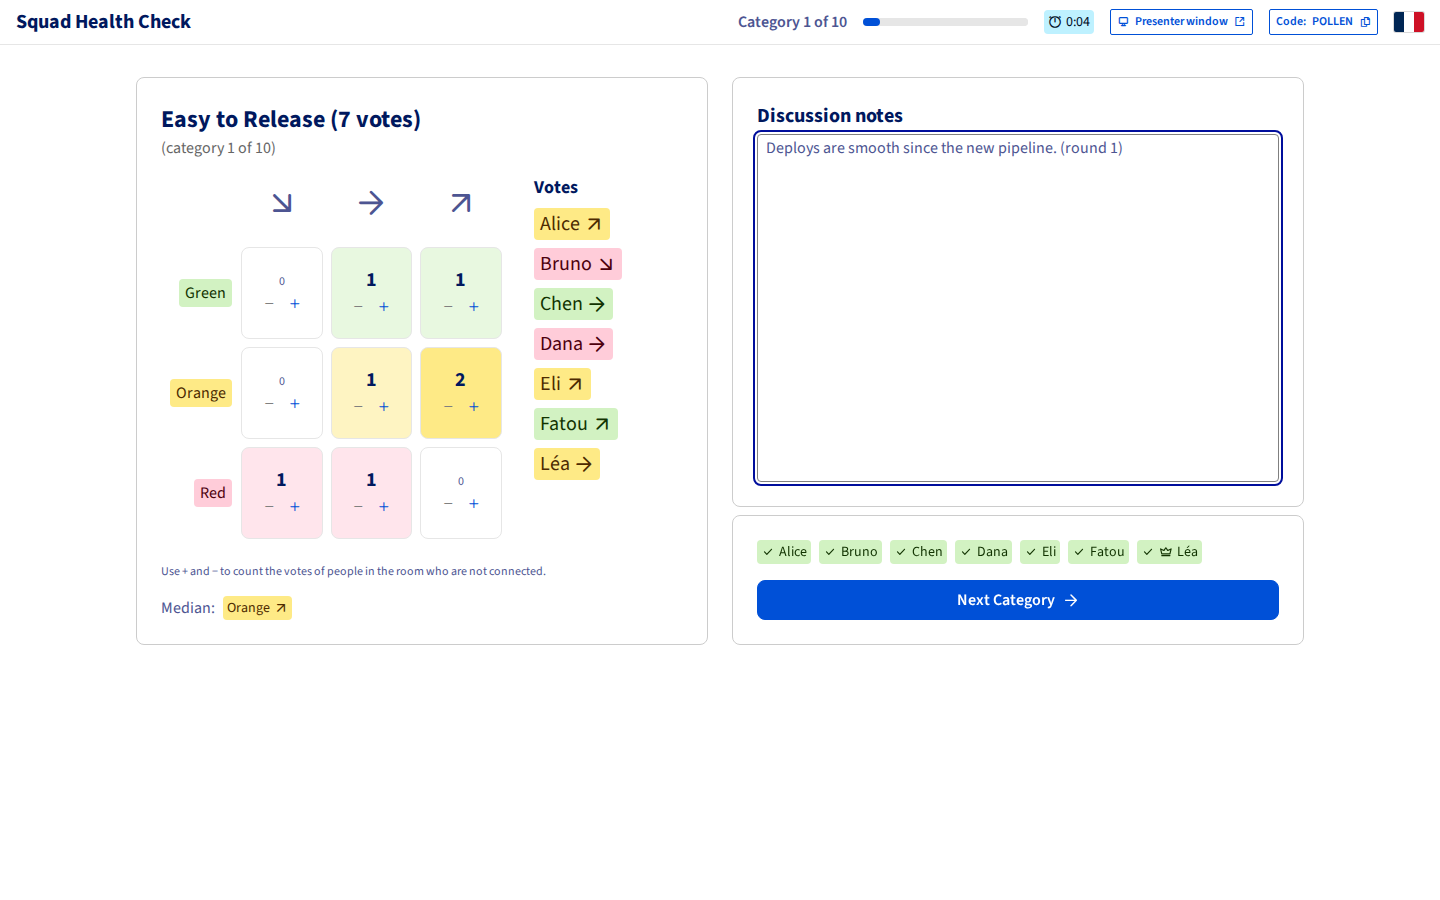
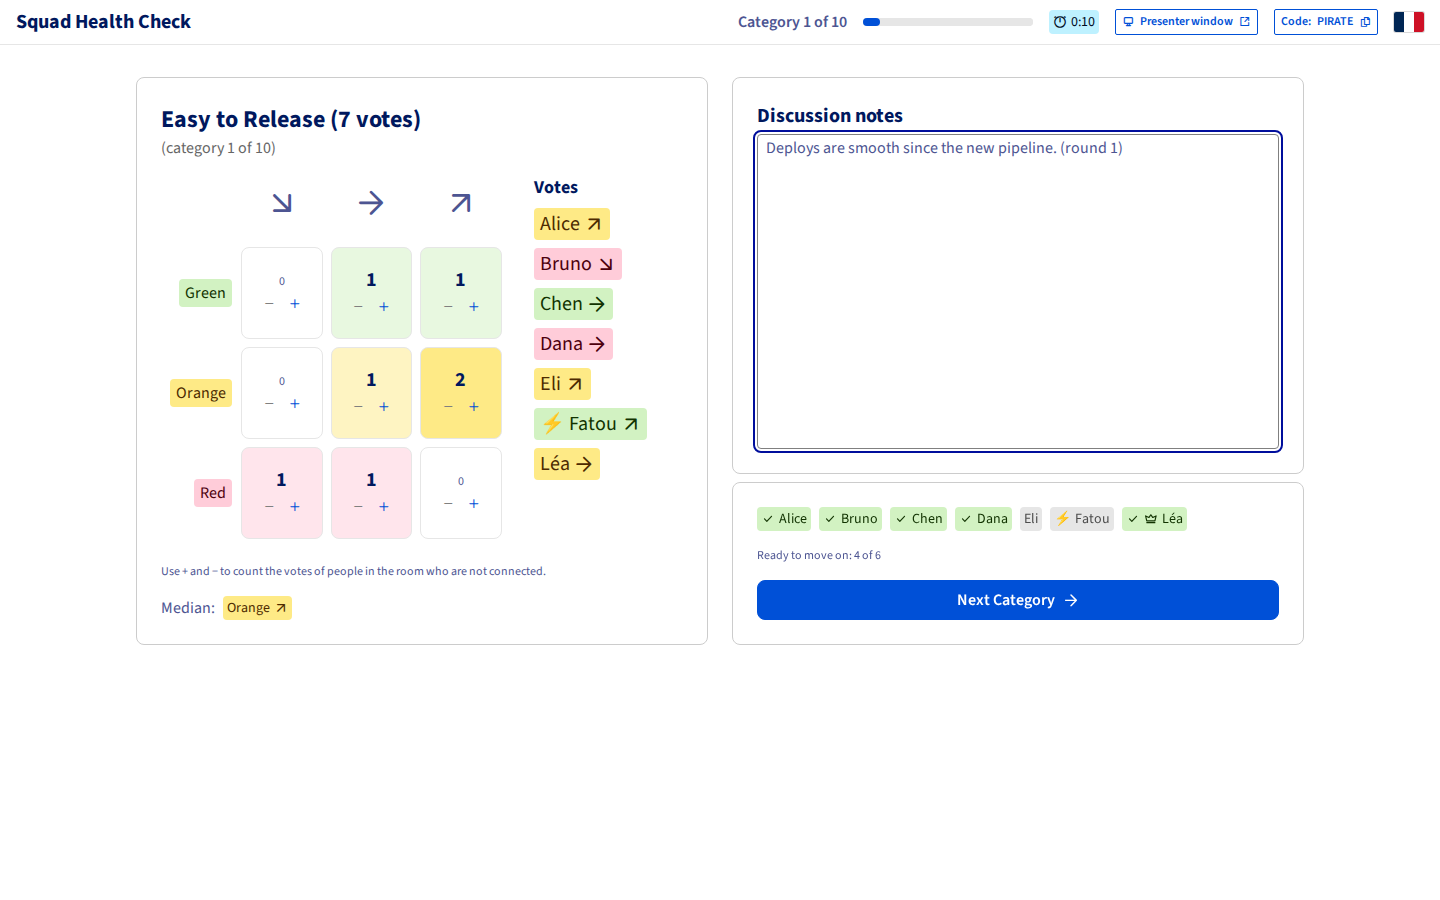
docs: refresh the screenshots and list the ready button, quick voters, fun facts and editor tabs in the README

Changed region(s): [[0.5, 0.4978, 0.9062, 0.6533], [0.7188, 0.0, 0.9375, 0.0311], [0.375, 0.4356, 0.4688, 0.4978]]

diff --git a/README.md b/README.md
@@ -35,7 +35,13 @@ A static site on GitHub Pages, synced in real time through Firebase (free plan).
     <th>🎛 Facilitator dashboard</th>
   </tr>
   <tr>
-    <td><img src="docs/screenshots/facilitator.png" alt="Facilitator view: the vote matrix with plus and minus buttons for offline votes, the private discussion notes and the Next Category button" width="560"></td>
+    <td><img src="docs/screenshots/facilitator.png" alt="Facilitator view: the vote matrix with plus and minus buttons for offline votes, the named votes, the private discussion notes, who is ready to move on and the Next Category button" width="560"></td>
+  </tr>
+  <tr>
+    <th colspan="2">🏁 Finished screen (shared)</th>
+  </tr>
+  <tr>
+    <td colspan="2"><img src="docs/screenshots/finished.png" alt="Finished screen on the presenter window: a banner of four fun facts about the health check (the most in sync category, the number of votes, a green thumb and the quickest voter) above the recap of each category" width="560"></td>
   </tr>
 </table>
 
@@ -52,7 +58,9 @@ A static site on GitHub Pages, synced in real time through Firebase (free plan).
 | 📖 **Introduction step** | A built-in presentation of the workshop between the lobby and the first category |
 | 🎮 **Facilitator controls** | The facilitator drives the flow (start, reveal, next, end) from their own window and chooses at creation whether they take part in the vote |
 | ⏱ **Round timer** | Every view shows the time spent on the current category; it quietly turns 🟠 amber past the time slot chosen at creation (1–30 min, 10 by default, about 2 hours for 10 categories with the intro and wrap-up), then 🔴 red at 150% of it |
+| 🧠 **Remembered name** | The name typed on joining is offered again on the next session, in the same browser |
 | 👥 **Participant cap** | At most 15 people (facilitator included) can join a session 🔒 |
+| ✅ **Ready to move on** | Once a round is revealed, each participant can tell, from their phone, that they are ready for the next category (and take it back); the facilitator sees who is ready (*Ready to move on: 4 of 6*) but still decides when to move on 🔒 |
 
 ### 🗳 Votes and results
 
@@ -62,14 +70,17 @@ A static site on GitHub Pages, synced in real time through Firebase (free plan).
 | 🎉 **Auto-reveal** | Votes are revealed when every voter has voted (from the facilitator's open window); voters whose app is disconnected are marked in the facilitator view, which suggests revealing by hand once the others have voted |
 | 🕶 **Vote anonymization** | Chosen at creation: *off* (everyone sees who voted what once a round is revealed), *facilitator only* (only the facilitator sees names; the shared screen shows totals) or *full* (totals only). Names are never visible while a round is being voted 🔒 |
 | ➕ **Votes for people without the app** | During a round, the facilitator adds or removes votes in the matrix for people in the room who are not connected; they are marked and can be reset |
+| ⚡ **Quick voters** | A ⚡ before the name of whoever voted within 2 seconds of the round opening, in the facilitator's live list and in the named votes of the current round |
+| 🎊 **Fun facts** | The finished screen opens with a banner of four fun facts picked from 33 (*Pessimistic Pal*, *Quickest Draw*, *Hot Debate*, *Team Mood*…), mixing the team, people and speed; facts about what a person voted only appear when votes are not anonymous, and speed facts name people but never their votes. The same facts show whenever the screen reloads |
 | 📝 **Private facilitator notes** | A note per category in the facilitator view, never on the shared screen; only the facilitator can read them 🔒 |
 
 ### 🧩 Preparing and following up
 
 | | |
 |---|---|
-| 🗂 **Categories** | Edit, add, remove and reorder the categories (drag and drop or the ↑/↓ buttons); removed ones stay among the suggestions, and the last choice is the default for the next session |
+| 🗂 **Categories** | Edit, add, remove and reorder the categories (drag and drop or the ↑/↓ buttons); each one describes its 🟢 green and 🔴 red states, in English and French tabs of the editor, while 🟠 orange keeps a generic description to keep the discussion on the extremes; removed ones stay among the suggestions, and the last choice is the default for the next session |
 | 📤 **Recap export** | The facilitator edits the notes of every category at the end and downloads results and notes as **Markdown**, an accessible **PDF**, or **JSON** (format: [`public/session-export.schema.json`](public/session-export.schema.json)) |
+| 💡 **Suggested categories** | Built-in categories removed from the list stay among the suggestions, with a button to add them back or delete them for good |
 | 📈 **Comparison with the previous session** | The JSON of a past session, picked at creation (the last one finished in this browser by default) or imported on the recap, shows each category's previous median and how it moved |
 | 🌍 **English and French** | Follows the browser language; the flag in the navbar switches it, in every open window |
 | ♿ **Accessible** | WCAG 2.2 AA for the app, PDF/UA-1 for the PDF report (see [Accessibility](#-accessibility)) |
@@ -89,7 +100,7 @@ flowchart LR
     E --> F["🎉 Reveal"]
     F --> G["💬 Discuss & note"]
     G -->|next category| E
-    G -->|last one| H["📤 Recap & export"]
+    G -->|last one| H["🎊 Fun facts,<br/>recap & export"]
 ```
 
 1. **Facilitator** clicks "Create Session" → customises categories and settings (whether they vote, time per category, vote anonymization, previous session to compare with) → starts session → enters their name → lands on the facilitator view
@@ -99,9 +110,11 @@ flowchart LR
 5. For each category:
    - Everyone votes a **color** (🟢 happy / 🟠 issues / 🔴 needs fixing) and a **trend** (↗ / → / ↘) on their phone
    - The shared screen shows how many votes are in; votes are revealed when everyone has voted (or the facilitator forces reveal)
+   - A ⚡ marks anyone who voted within 2 seconds of the round opening
    - Team discusses; the facilitator writes the category's note in the facilitator view, and adds the votes of people without the app with + / −
+   - Participants tap **I'm ready for the next category** on their phone; the facilitator sees *Ready to move on: N of M*
    - Facilitator clicks "Next Category"
-6. At the end, the shared screen shows the vote recap; the facilitator reviews every note and **downloads the report** (with notes) — keep the JSON to compare with next time
+6. At the end, the shared screen opens with four **fun facts** about the session, then shows the vote recap; the facilitator reviews every note and **downloads the report** (with notes) — keep the JSON to compare with next time
 
 > [!TIP]
 > - The facilitator's tab must stay open for auto-reveal and for moving on; reloading it is fine (identity is kept).
@@ -166,7 +179,7 @@ It checks every screen, runs axe on each view and phase, downloads the three rep
 ## ✅ Manual test checklist
 
 <details>
-<summary>17 steps with two browsers — click to expand</summary>
+<summary>20 steps with two browsers — click to expand</summary>
 
 <br>
 
@@ -194,6 +207,9 @@ Use two browsers (or one normal + one private window): **A** = facilitator, **B*
 15. B: open `…/#/session/<CODE>/present` → "Only the facilitator can open the presenter view"; `…/#/session/<CODE>/notes` → redirected to the session.
 16. New session created with the JSON of test 10 as previous session: after each reveal, A's view shows the previous median and Better / Same / Worse.
 17. Accessibility, keyboard only: Tab from a fresh load → "Skip to main content" first; reorder a category with ↑/↓ and focus stays on the moved category; join, vote and run a round without the mouse; with a screen reader (NVDA + Firefox or VoiceOver + Safari), B hears each new round, the reveal and the end of the session, and A hears votes arriving. Open the PDF in Acrobat or NVDA: it reads the title, then each category's heading, median and note, without the footers.
+18. Ready to move on: after a reveal, B taps "I'm ready for the next category" → B sees "You're ready", A's view shows "Ready to move on: 1 of 1" and B's badge turns green; B taps "Not ready yet" → back to 0. A's Next Category works either way, and the next round starts with nobody ready. Rules Playground: *write* `true` at `/sessions/<CODE>/ready/<current index>/<A's UID>` as B → *Denied*; as B at `/ready/<current index>/<B's UID>` during voting → *Denied*.
+19. Quick voters: B votes within 2 seconds of the round opening → ⚡ before B's name in A's live list and, with anonymization Off, in the named votes after the reveal; B voting later shows no ⚡. Rules Playground: *write* `5` at `/sessions/<CODE>/voters/<current index>/<B's UID>` as B → *Denied*.
+20. Fun facts: finish a session with at least three voters over several categories → the presenter opens on a banner of four fun facts instead of "Session Complete!", the same ones after a reload; with anonymization Off a fact can name a person for what they voted, with *Facilitator only* or *Full* only team and speed facts appear. Rules Playground: *write* any value at `/sessions/<CODE>/roundStarts/0` as B → *Denied*.
 
 </details>
 
@@ -268,13 +284,22 @@ flowchart LR
 │   │   ├── sessionStore.ts     # All realtime reads/writes
 │   │   ├── deriveClientState.ts# Raw data → UI state (pure, tested)
 │   │   ├── sessionCode.ts      # Codes and random keys
+│   │   ├── sessionUrl.ts       # Public share link
+│   │   ├── participantSlots.ts # Participant cap (write-once slots)
+│   │   ├── nameStorage.ts      # Participant name remembered in the browser
 │   │   ├── serialize.ts        # Firebase-safe category payloads
+│   │   ├── categoryStorage.ts  # Category choice and removed ones, kept in the browser
+│   │   ├── suggestedCategories.ts # Built-in categories offered as suggestions
+│   │   ├── localizeCategory.ts # Category text in the user's language
+│   │   ├── moveItem.ts         # Reordering helper for the category editor
 │   │   ├── i18n.ts             # English and French messages, language switch
 │   │   ├── exportReport.ts     # Markdown and JSON exports
 │   │   ├── pdfReport.ts        # Accessible PDF export
 │   │   ├── sessionHistory.ts   # Previous session: JSON format, storage, comparison
 │   │   ├── roundTimer.ts       # Time slots and timer thresholds
 │   │   ├── voteScore.ts        # Vote weights and median
+│   │   ├── funStats.ts         # The 33 fun facts of the finished screen and their picking
+│   │   ├── useLang.ts          # Re-render on language switch
 │   │   ├── usePageTitle.ts     # Tab title per page
 │   │   └── useFocusIfLost.ts   # Focus recovery when a view replaces the focused control
 │   ├── pages/              # Home, CreateSession, SessionPage, PresenterPage
